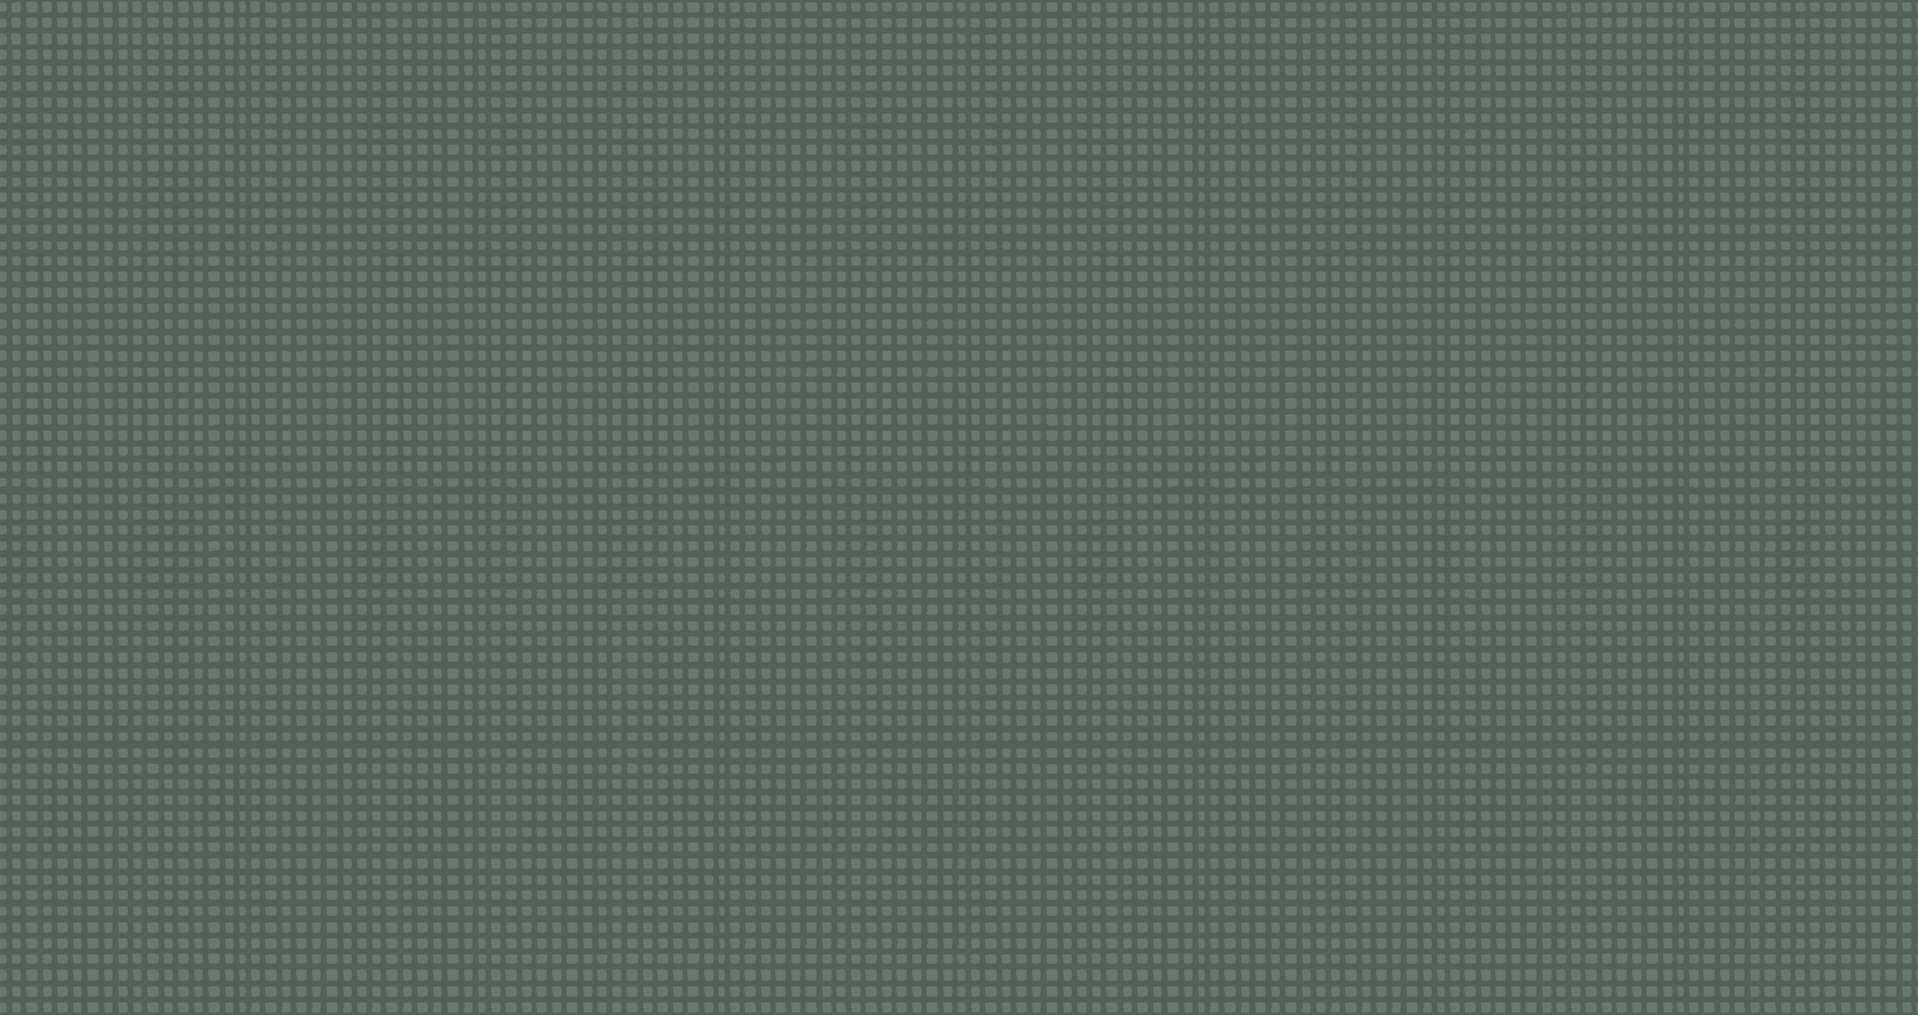
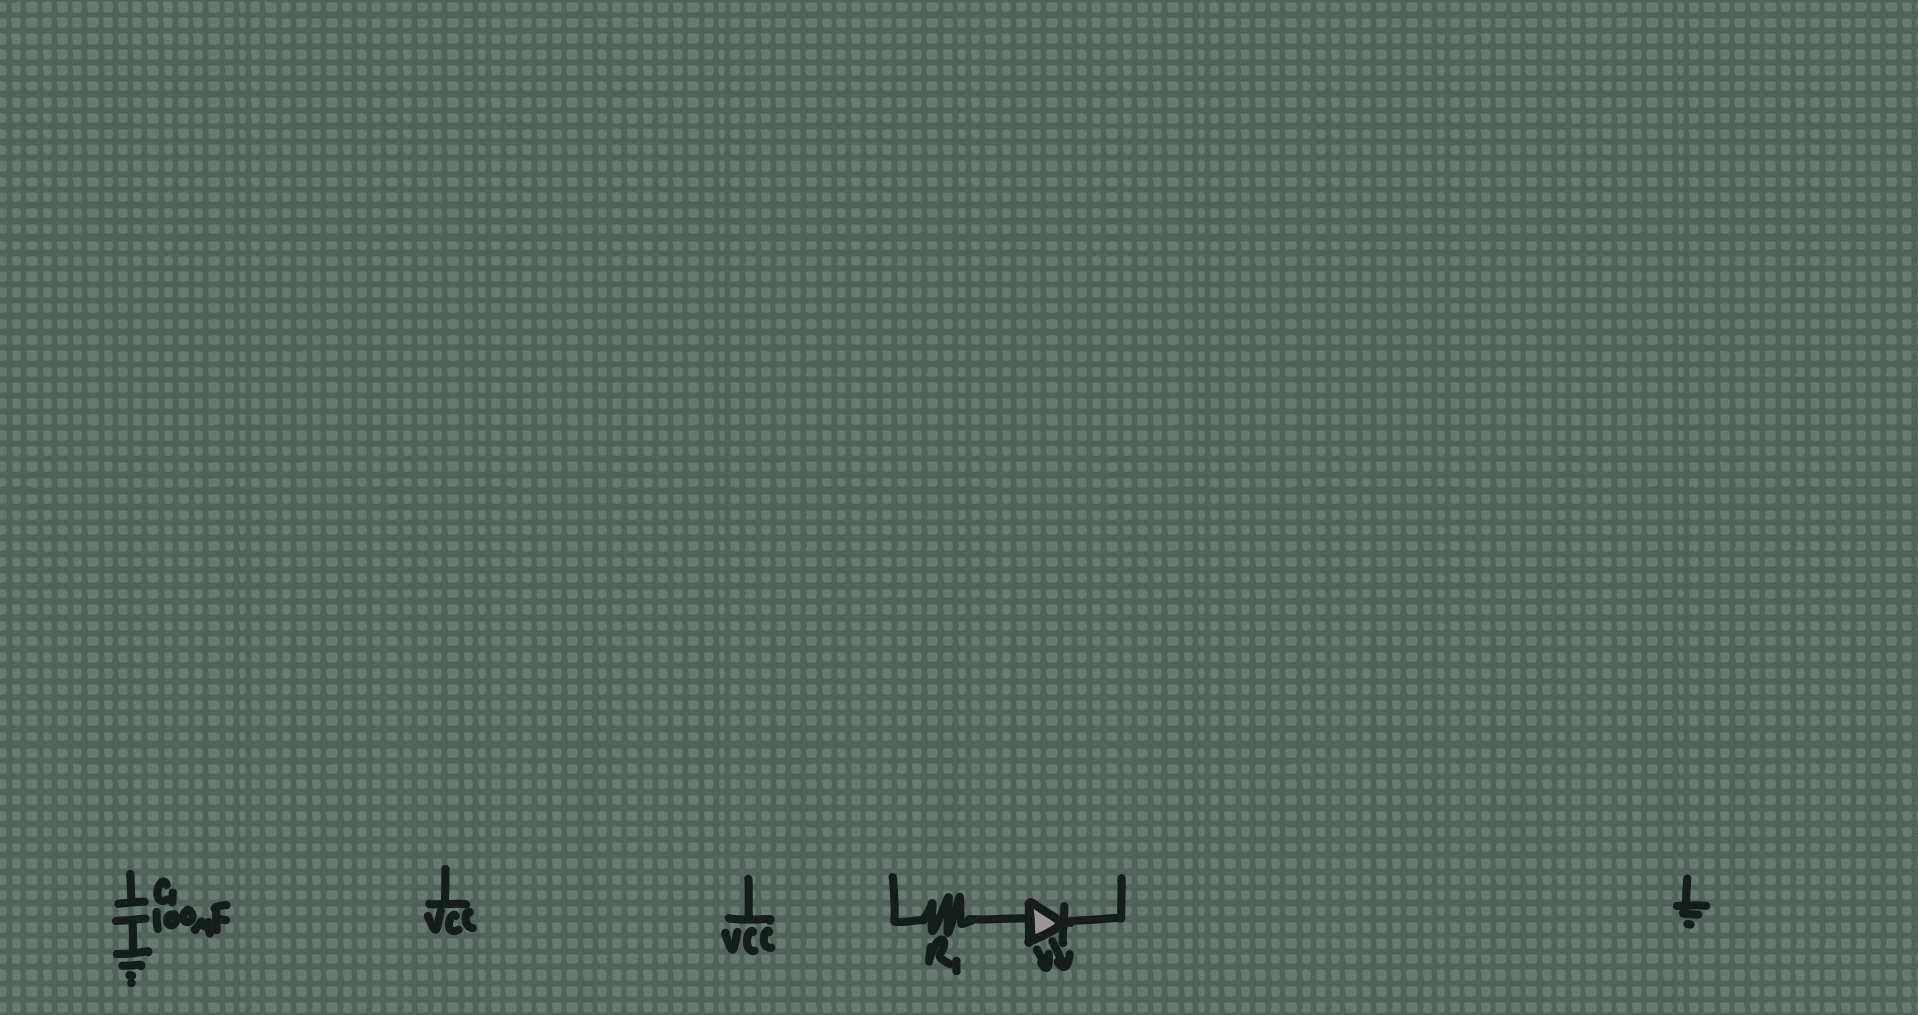
update style.css

diff --git a/style.css b/style.css
@@ -1,13 +1,14 @@
 :root{
     --colour1: rgb(20,29,28);
     --colour2: rgb(82,97,90);
-    --colour3: rgb(104,122,122);
-    --colour4: #B5CFBF;
+    --colour3: rgb(104,122,112);
+    --colour4: white;
     --colour5: #82A6B1;
 }
 
 .large_image {
-    height: 80vh;
+    margin-top:5px;
+    height: 500px;
     width: 400px;
     object-fit: cover;
     object-position: center;
@@ -42,11 +43,27 @@
     text-align: right;
 }
 
+.links{
+    background-color:var(--colour2);
+    border-color:var(--colour1);
+    border-style:solid;
+    display:inline-flex;
+    border-width:5px;
+    border-radius:10px;
+    align-self:center;
+}
+
+.link_logo{
+    width:25px;
+    float:left;
+}
+
 .link{
     -webkit-text-fill-color: var(--colour4);
         font-weight:bold;
         text-decoration: underline;
         display: inline-block;
+        padding:5px;
 }
 
 a{
@@ -66,7 +83,7 @@ button{
 }
 
 .button_down{
-    background-color: var(--colour2);
+    background-color: var(--colour3);
     border-color: var(--colour2);
     -webkit-text-fill-color: var(--colour1);
 }
@@ -97,7 +114,7 @@ h1{
     padding: 10px;
     display:flex;
     flex-direction: column;
-    height: 100vh;
+    min-height: 290px;
     flex-grow: 1;
     text-align: center;
     -webkit-text-fill-color: var(--colour1);
@@ -151,8 +168,8 @@ h3{
 
 body{
     background-image: url('images/grid.png');
-    background-repeat:no-repeat;
-    background-size:cover;
+    background-repeat:repeat;
+    background-size:95%;
 }
 
 html,

diff --git a/index.html b/index.html
@@ -38,9 +38,20 @@
                 <div class="header">
                 <h1>H. Crowe Elshobary</h1>
                 </div>
-                <p>
-                <a class="link" href="https://www.linkedin.com/in/h-crowe-elshobary-718864360/">Linkedin</a> |
-                <a class="link" href="https://github.com/Failed-Captcha2">Github</a>
+                <p class="links">
+                <a class="link" href="https://www.linkedin.com/in/h-crowe-elshobary-718864360/">
+                    <img class="link_logo" src="images/linkedin.png">
+                    Linkedin
+                </a> 
+                    &nbsp;
+                <a class="link" href="https://github.com/Failed-Captcha2">
+                    <img class="link_logo" src="images/github.png">
+                    Github
+                </a>
+                <a class="link" href="mailto:crowe.elshobary@gmail.com">
+                    <img class="link_logo" src="images/email.png">
+                    crowe.elshobary@gmail.com
+                </a>
                 </p>
                 <div class="paragraph">
                 <p>
